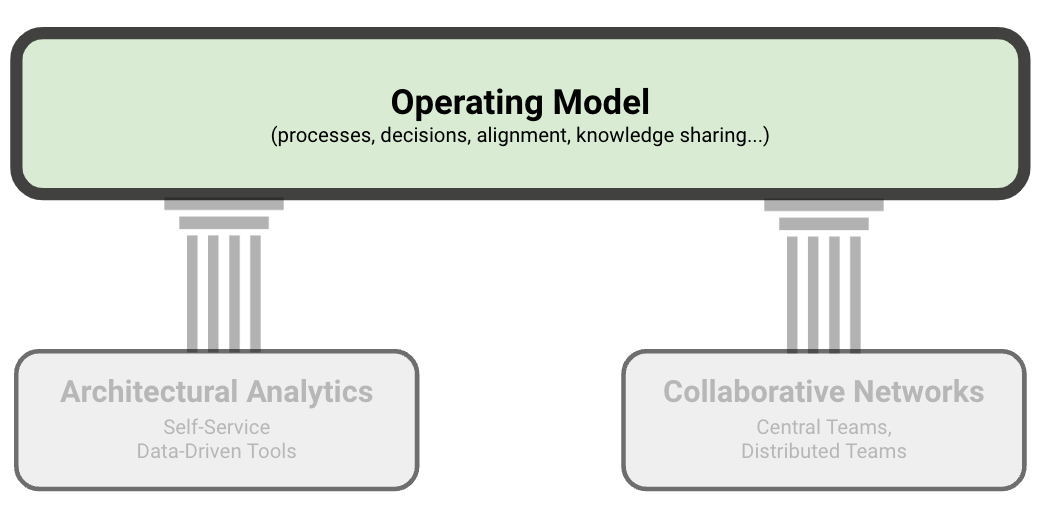
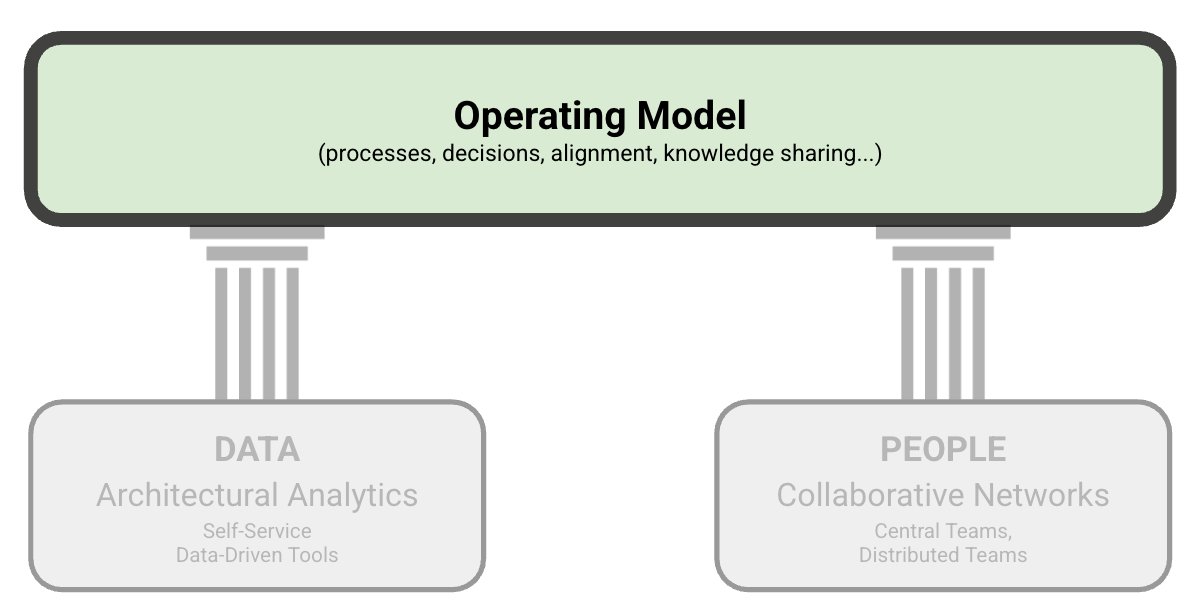
framework fugure update

Changed region(s): [[0.0, 0.0311, 1.0, 0.965], [0.2459, 0.1556, 0.7378, 0.2802]]

diff --git a/_site/intro.html b/_site/intro.html
@@ -165,8 +165,8 @@ Have you ever wondered how to run an IT architecture practice without <strong>fe
 <p><br />
 Grounded Architecture framework consists of three elements:</p>
 <ul>
-  <li><a href="analytics">Lightweight Architectural Analytics</a>,</li>
-  <li><a href="people">Collaborative Networks</a>,</li>
+  <li><a href="analytics">Lightweight Architectural Analytics (Data)</a>,</li>
+  <li><a href="people">Collaborative Networks (People)</a>,</li>
   <li><a href="operating-model">Operating Model</a>.</li>
 </ul>
 

diff --git a/_site/summary.html b/_site/summary.html
@@ -147,8 +147,8 @@ Image by <a target="_blank" href="https://www.istockphoto.com/en/portfolio/Ruhey
 
 <p>The Grounded Architecture framework consists of three elements:</p>
 <ul>
-  <li><a href="analytics">Lightweight Architectural Analytics</a>,</li>
-  <li><a href="people">Collaborative Networks</a>,</li>
+  <li><a href="analytics">Lightweight Architectural Analytics (Data)</a>,</li>
+  <li><a href="people">Collaborative Networks (People)</a>,</li>
   <li><a href="operating-model">Operating Model</a>.</li>
 </ul>
 

diff --git a/_site/grounded-architecture.html b/_site/grounded-architecture.html
@@ -144,8 +144,8 @@ In this part, I will briefly introduce the Grounded Architecture framework. I ch
 <p>Grounded Architecture framework is an approach to setting organizational structures for an architecture practice, and it has three elements:</p>
 
 <ul>
-  <li>Lightweight Architectural Analytics,</li>
-  <li>Collaborative Networks,</li>
+  <li>Lightweight Architectural Analytics (Data),</li>
+  <li>Collaborative Networks (People),</li>
   <li>The Operating Model.</li>
 </ul>
 
